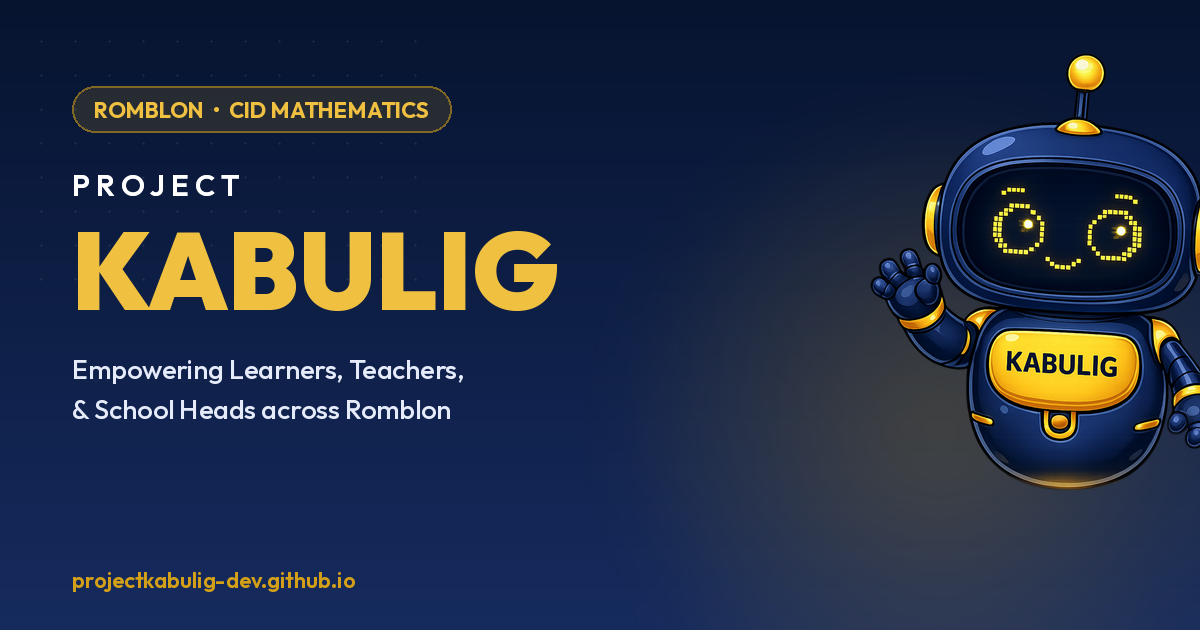
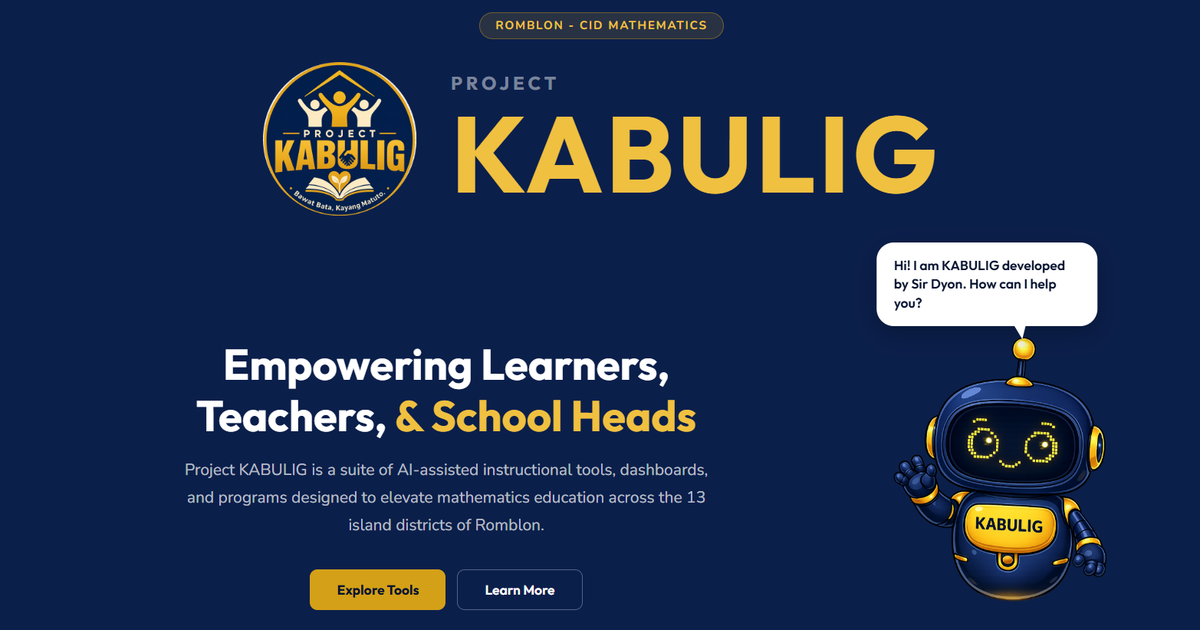
Add files via upload

diff --git a/index.html b/index.html
@@ -13,7 +13,7 @@
 <meta property="og:url" content="https://projectkabulig-dev.github.io/">
 <meta property="og:title" content="Project KABULIG - Romblon CID Mathematics">
 <meta property="og:description" content="AI-assisted instructional tools, dashboards, at programs para sa mathematics education sa 13 island districts ng Romblon - literacy tools, MathSTORY, numeracy intervention, at assessment dashboards.">
-<meta property="og:image" content="https://projectkabulig-dev.github.io/images/kabulig-og-image.png?v=3">
+<meta property="og:image" content="https://projectkabulig-dev.github.io/images/kabulig-og-image.png?v=4">
 <meta property="og:image:width" content="1200">
 <meta property="og:image:height" content="630">
 <meta property="og:image:type" content="image/png">
@@ -23,7 +23,7 @@
 <meta name="twitter:card" content="summary_large_image">
 <meta name="twitter:title" content="Project KABULIG - Romblon CID Mathematics">
 <meta name="twitter:description" content="AI-assisted instructional tools, dashboards, at programs para sa mathematics education sa 13 island districts ng Romblon.">
-<meta name="twitter:image" content="https://projectkabulig-dev.github.io/images/kabulig-og-image.png?v=3">
+<meta name="twitter:image" content="https://projectkabulig-dev.github.io/images/kabulig-og-image.png?v=4">
 
 <link href="https://fonts.googleapis.com/css2?family=Nunito:wght@400;600;700;800;900&family=Outfit:wght@400;500;600;700&display=swap" rel="stylesheet">
 <style>